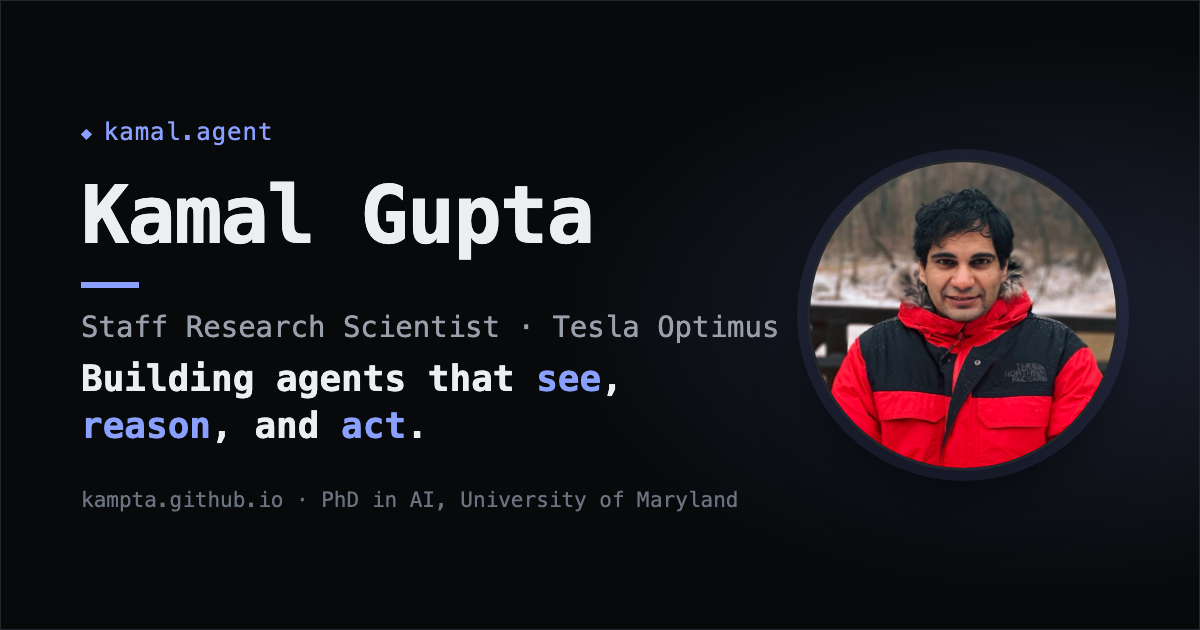
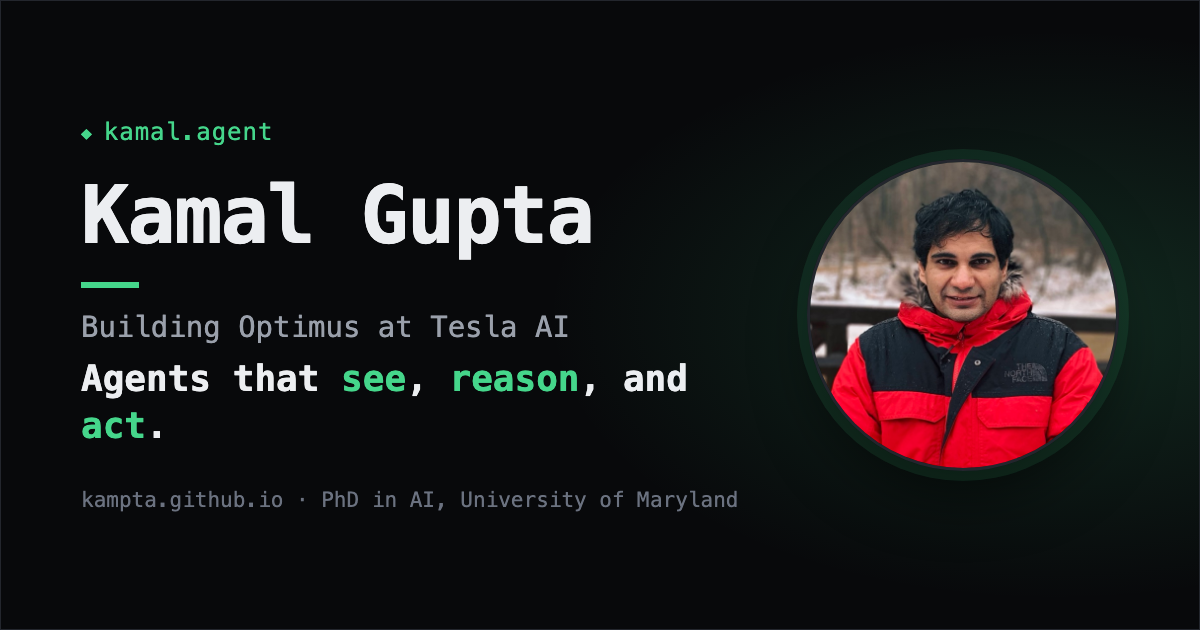
Switch accent to emerald, remove free-text input (restorable)
- Accent recolored blue -> emerald (#45d68b dark / #0f9d58 light) across
  both themes; OG card regenerated to match (and picks up new role line)
- Composer free-text input commented out in index.html (chips-only nav);
  JS guarded with `if (form)` and classify() retained, so restoring is a
  one-step un-comment
- CLAUDE.md: document the input-box toggle and accent/OG-card coupling

diff --git a/assets/app.js b/assets/app.js
@@ -570,7 +570,10 @@
       try { history.replaceState(null, "", "#" + intent); } catch (e) {}
     }
     var answer = ANSWERS[intent] || ANSWERS.fallback;
-    agentMessage(answer).then(function () { busy = false; input.focus(); });
+    agentMessage(answer).then(function () {
+      busy = false;
+      if (input) input.focus();
+    });
   }
 
   chips.addEventListener("click", function (e) {
@@ -580,13 +583,16 @@
     ask(intent, intent);
   });
 
-  form.addEventListener("submit", function (e) {
-    e.preventDefault();
-    var q = input.value.trim();
-    if (!q) return;
-    input.value = "";
-    ask(classify(q), q);
-  });
+  // Guarded: present only if the composer <form> is restored in index.html.
+  if (form) {
+    form.addEventListener("submit", function (e) {
+      e.preventDefault();
+      var q = input.value.trim();
+      if (!q) return;
+      input.value = "";
+      ask(classify(q), q);
+    });
+  }
 
   // tap / key during streaming = skip to the end
   stream.addEventListener("click", function () {
@@ -623,7 +629,7 @@
     agentMessage(ANSWERS.about).then(function () {
       busy = false;
       if (route && route !== "about" && route !== "news") ask(route, route);
-      else input.focus();
+      else if (input) input.focus();
     });
   }, reduceMotion ? 0 : 360);
 })();

diff --git a/assets/style.css b/assets/style.css
@@ -20,9 +20,9 @@ html[data-theme="dark"] {
   --text:      #eceef1;
   --muted:     #888f9b;
   --user-bg:   #1a1e26;
-  --accent:    #8aa0ff;
+  --accent:    #45d68b;
   --accent-2:  #5eead4;
-  --accent-soft: rgba(138, 160, 255, 0.13);
+  --accent-soft: rgba(69, 214, 139, 0.13);
   --shadow:    0 24px 60px -28px rgba(0, 0, 0, 0.85);
   --glow:      none;
   color-scheme: dark;
@@ -36,9 +36,9 @@ html[data-theme="light"] {
   --text:      #14161b;
   --muted:     #6b7280;
   --user-bg:   #eef1f6;
-  --accent:    #4c5ce0;
+  --accent:    #0f9d58;
   --accent-2:  #0d9488;
-  --accent-soft: rgba(76, 92, 224, 0.10);
+  --accent-soft: rgba(15, 157, 88, 0.10);
   --shadow:    0 24px 60px -34px rgba(20, 22, 30, 0.30);
   --glow:      none;
   color-scheme: light;

diff --git a/index.html b/index.html
@@ -83,6 +83,8 @@
       <button class="chip" type="button" data-intent="contact">contact</button>
       <button class="chip" type="button" data-intent="cv">cv</button>
     </div>
+    <!-- Free-text input removed for now. To bring it back, un-comment this
+         <form>; the JS (classify + submit handler) is already guarded for it.
     <form id="form" class="prompt" autocomplete="off">
       <span class="prompt__mark" aria-hidden="true">›</span>
       <label class="sr-only" for="q">Ask the agent a question</label>
@@ -92,6 +94,7 @@
         <span aria-hidden="true">↵</span>
       </button>
     </form>
+    -->
   </footer>
 </main>
 

diff --git a/CLAUDE.md b/CLAUDE.md
@@ -41,6 +41,14 @@ Files that *are* the site:
 - Scroll: each new question is pinned ~16px from the top; never auto-jump to
   the bottom of a long reply. Auto-anchor stops once the user scrolls.
 - `classify()` maps free-text → intent by keywords.
+- **Composer input is currently disabled**: the free-text `<form>` is
+  commented out in `index.html` (chips-only nav). The JS is guarded
+  (`if (form)`) and `classify()` is kept, so restoring = un-comment that
+  `<form>` block; no JS change needed.
+- **Accent color** is the CSS var `--accent` / `--accent-soft` / `--accent-2`
+  in `assets/style.css` (per `[data-theme]`). Current: emerald `#45d68b`
+  dark / `#0f9d58` light. The OG card **bakes the accent in** — if you change
+  it, regenerate `assets/og.png` (the temp `_og.html` must use the new hex).
 
 ## Regenerating assets (requires: ffmpeg, yt-dlp, poppler, Google Chrome)
 
